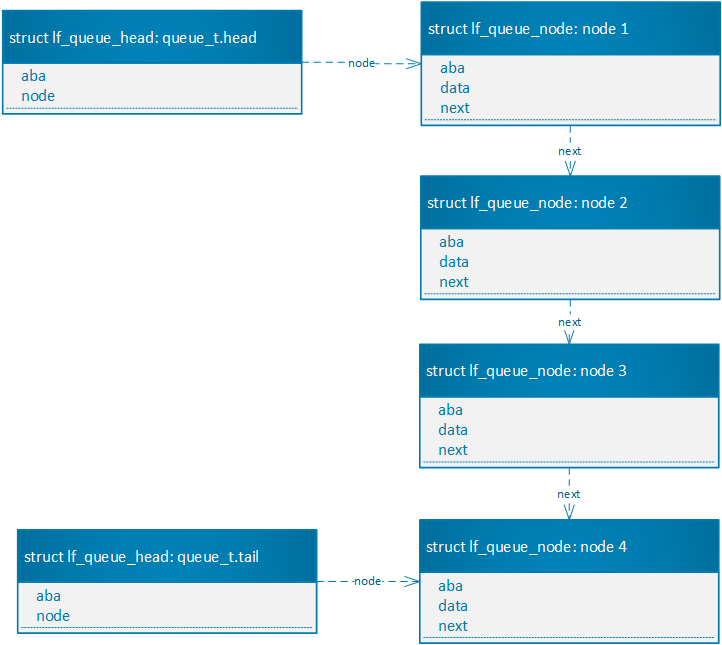
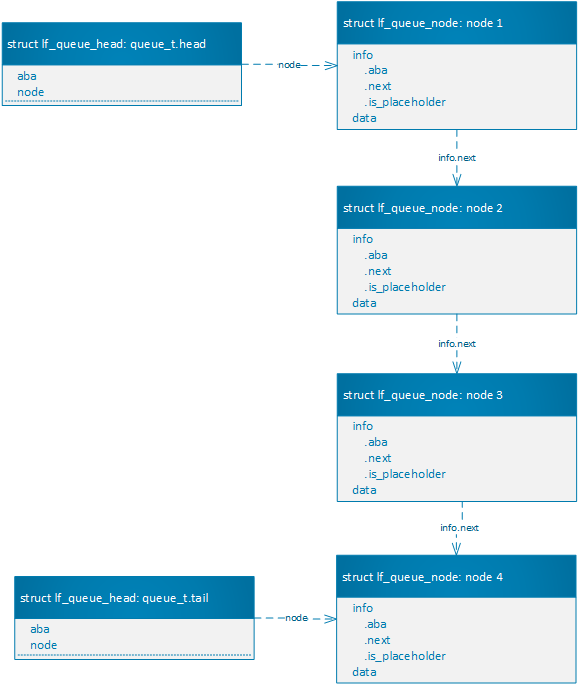
update readme for placeholder

diff --git a/README.md b/README.md
@@ -38,7 +38,7 @@ if (memcmp(obj, expected, sizeof *obj) == 0) {
 无锁队列的数据结构如下图所示。
 
 * 设计`struct lf_queue_head`用于存储队头，队尾，它的node成员，分别指向队头和队尾。
-* `struct lf_queue_node`表示队列节点，其next指针指向队尾方向的下一节点
+* `struct lf_queue_node`表示队列节点，其中包含info子成员，用于原子操作。info.next指向tail方向的下一节点。
 * `struct lf_queue_node`和`struct lf_queue_head`都有aba成员，用于操作计数统计以避免ABA问题。
 
 ![无锁队列数据结构](https://xs-upload.oss-cn-hangzhou.aliyuncs.com/img/lf_queue.png)
@@ -58,3 +58,8 @@ if (memcmp(obj, expected, sizeof *obj) == 0) {
 
 队头指针原来指向的节点，即是出队的节点。
 
+### 占位符节点（placeholder）
+
+为了简化设计，队列中始终保持有一个节点。如果要dequeue最后一个节点时，需要多enqueue一个节点，以便将那个期望的节点“顶出”。这个多enqueue的节点，就是占位符节点。
+
+enqueue一个新节点时，如果队列中有占位符节点。会自动将其dequeue，上层业务不感知占位符节点。
